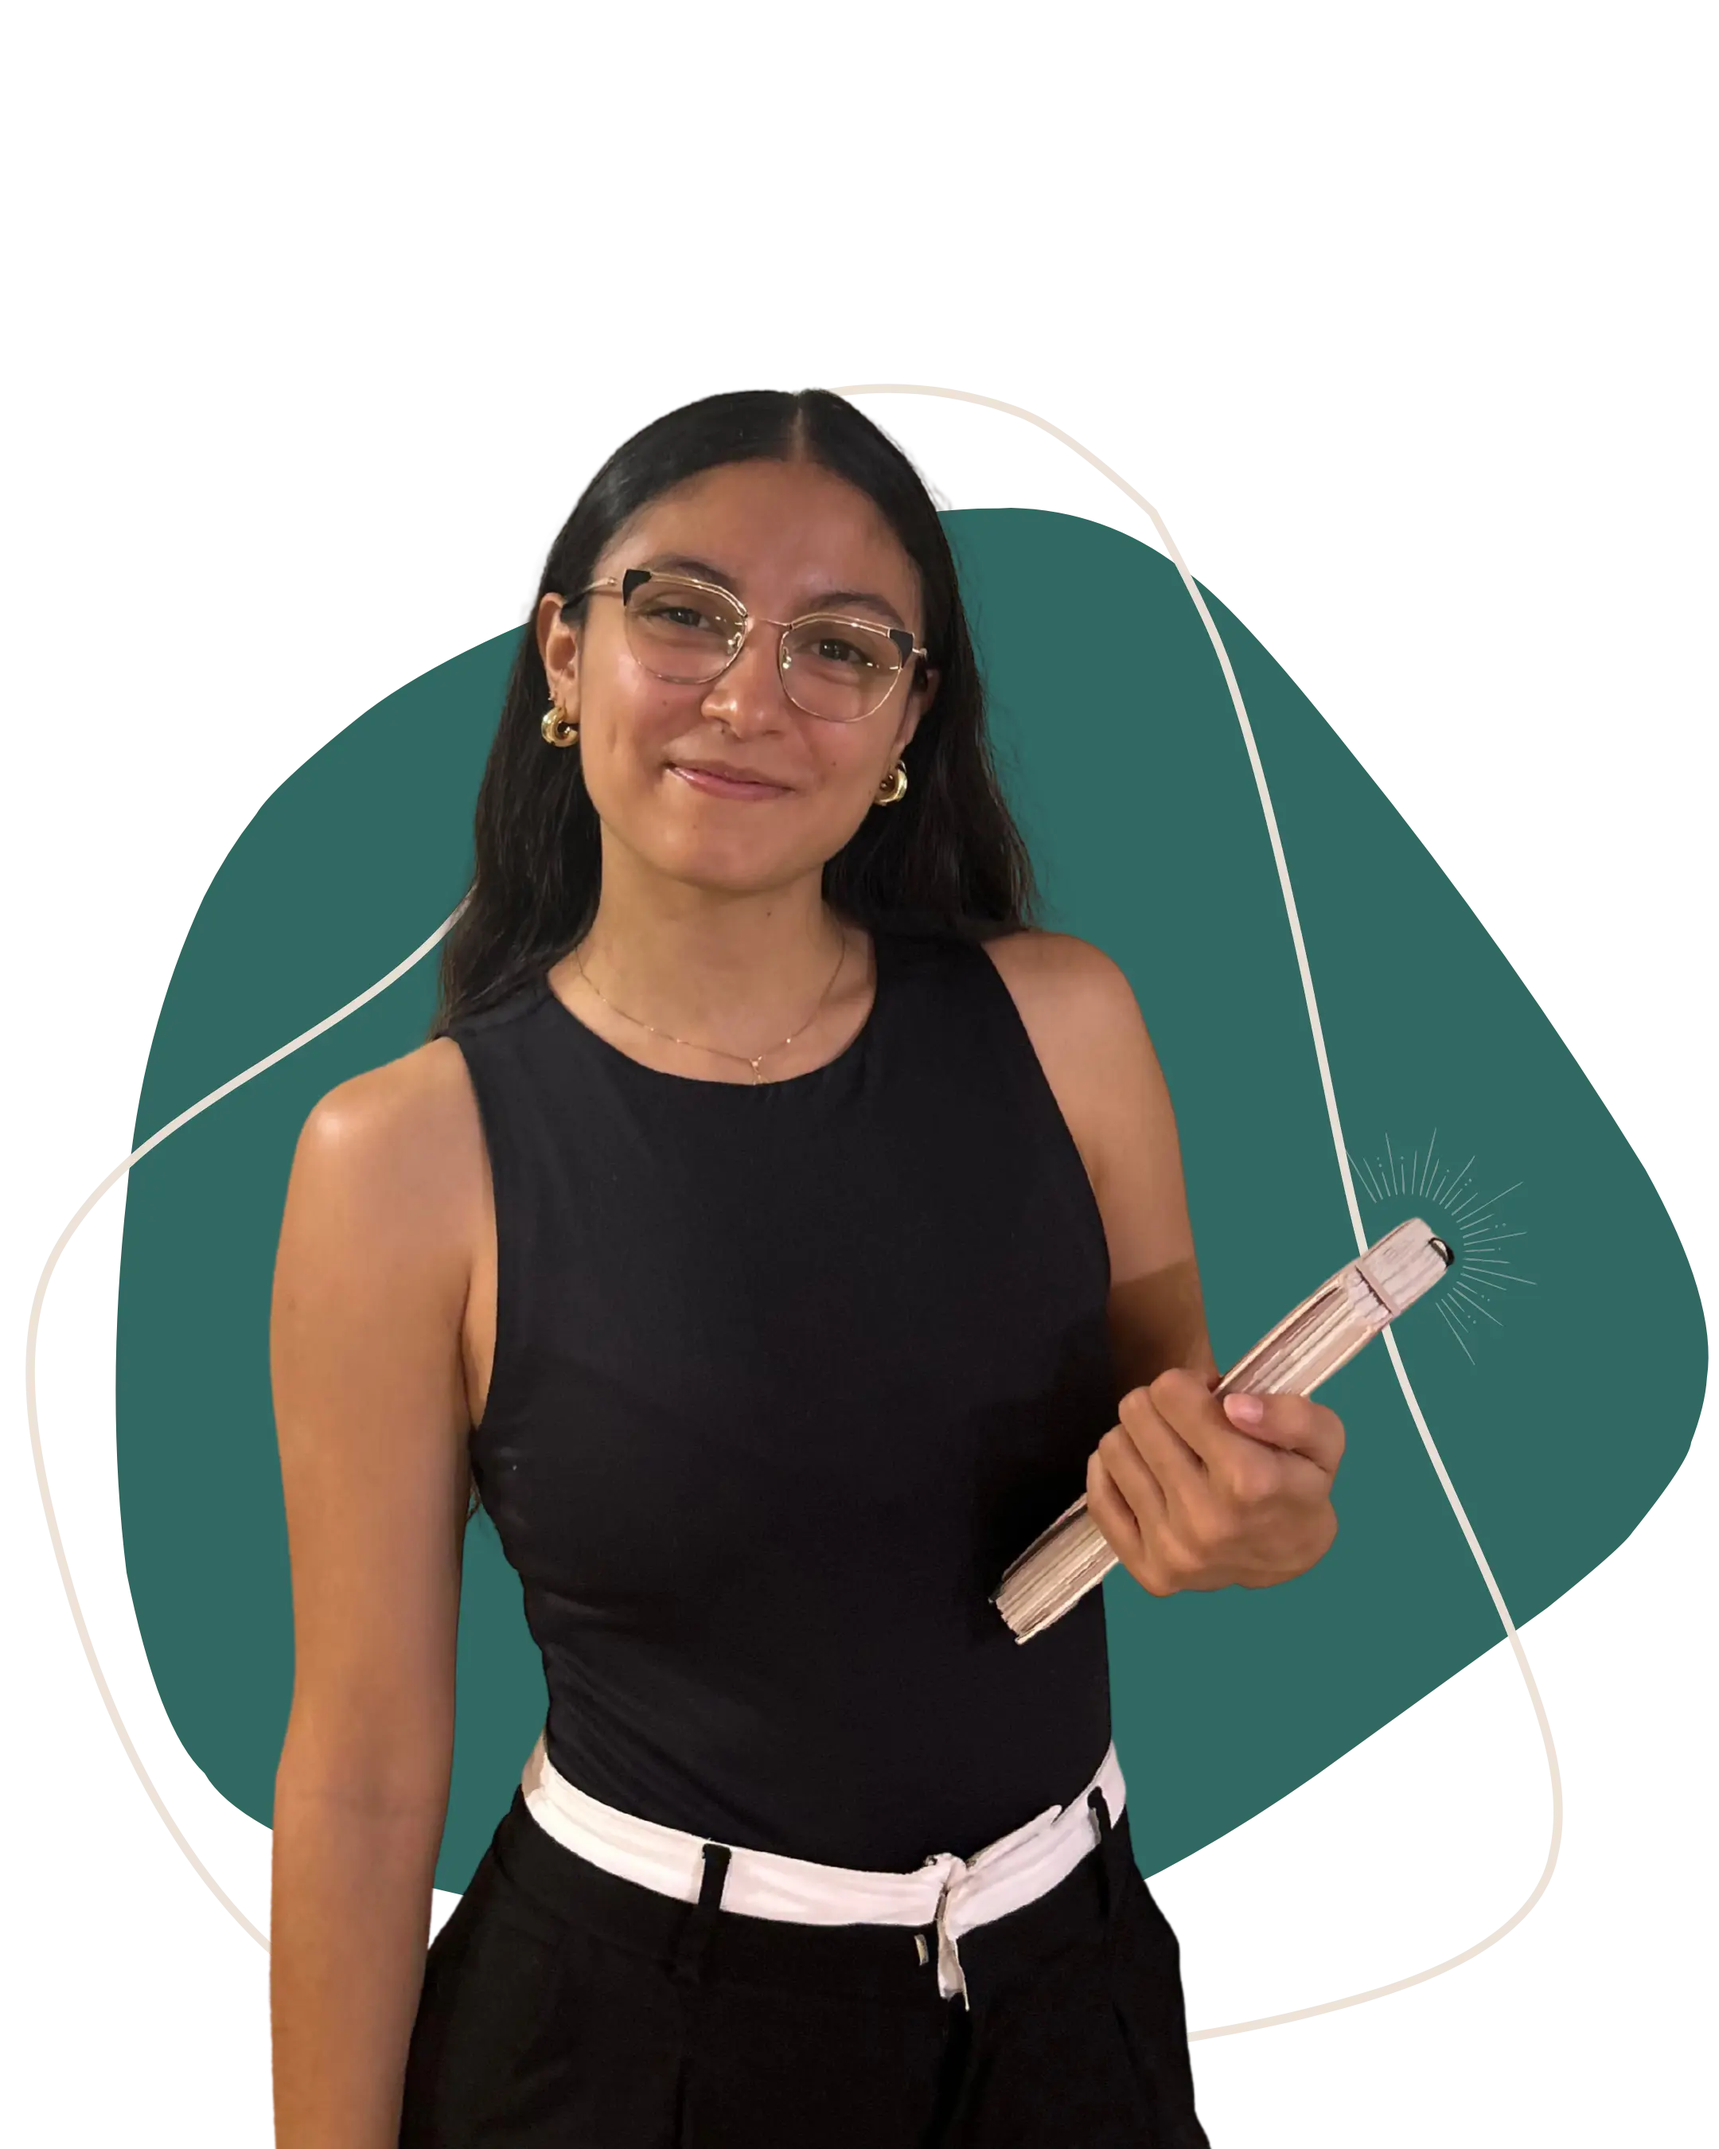
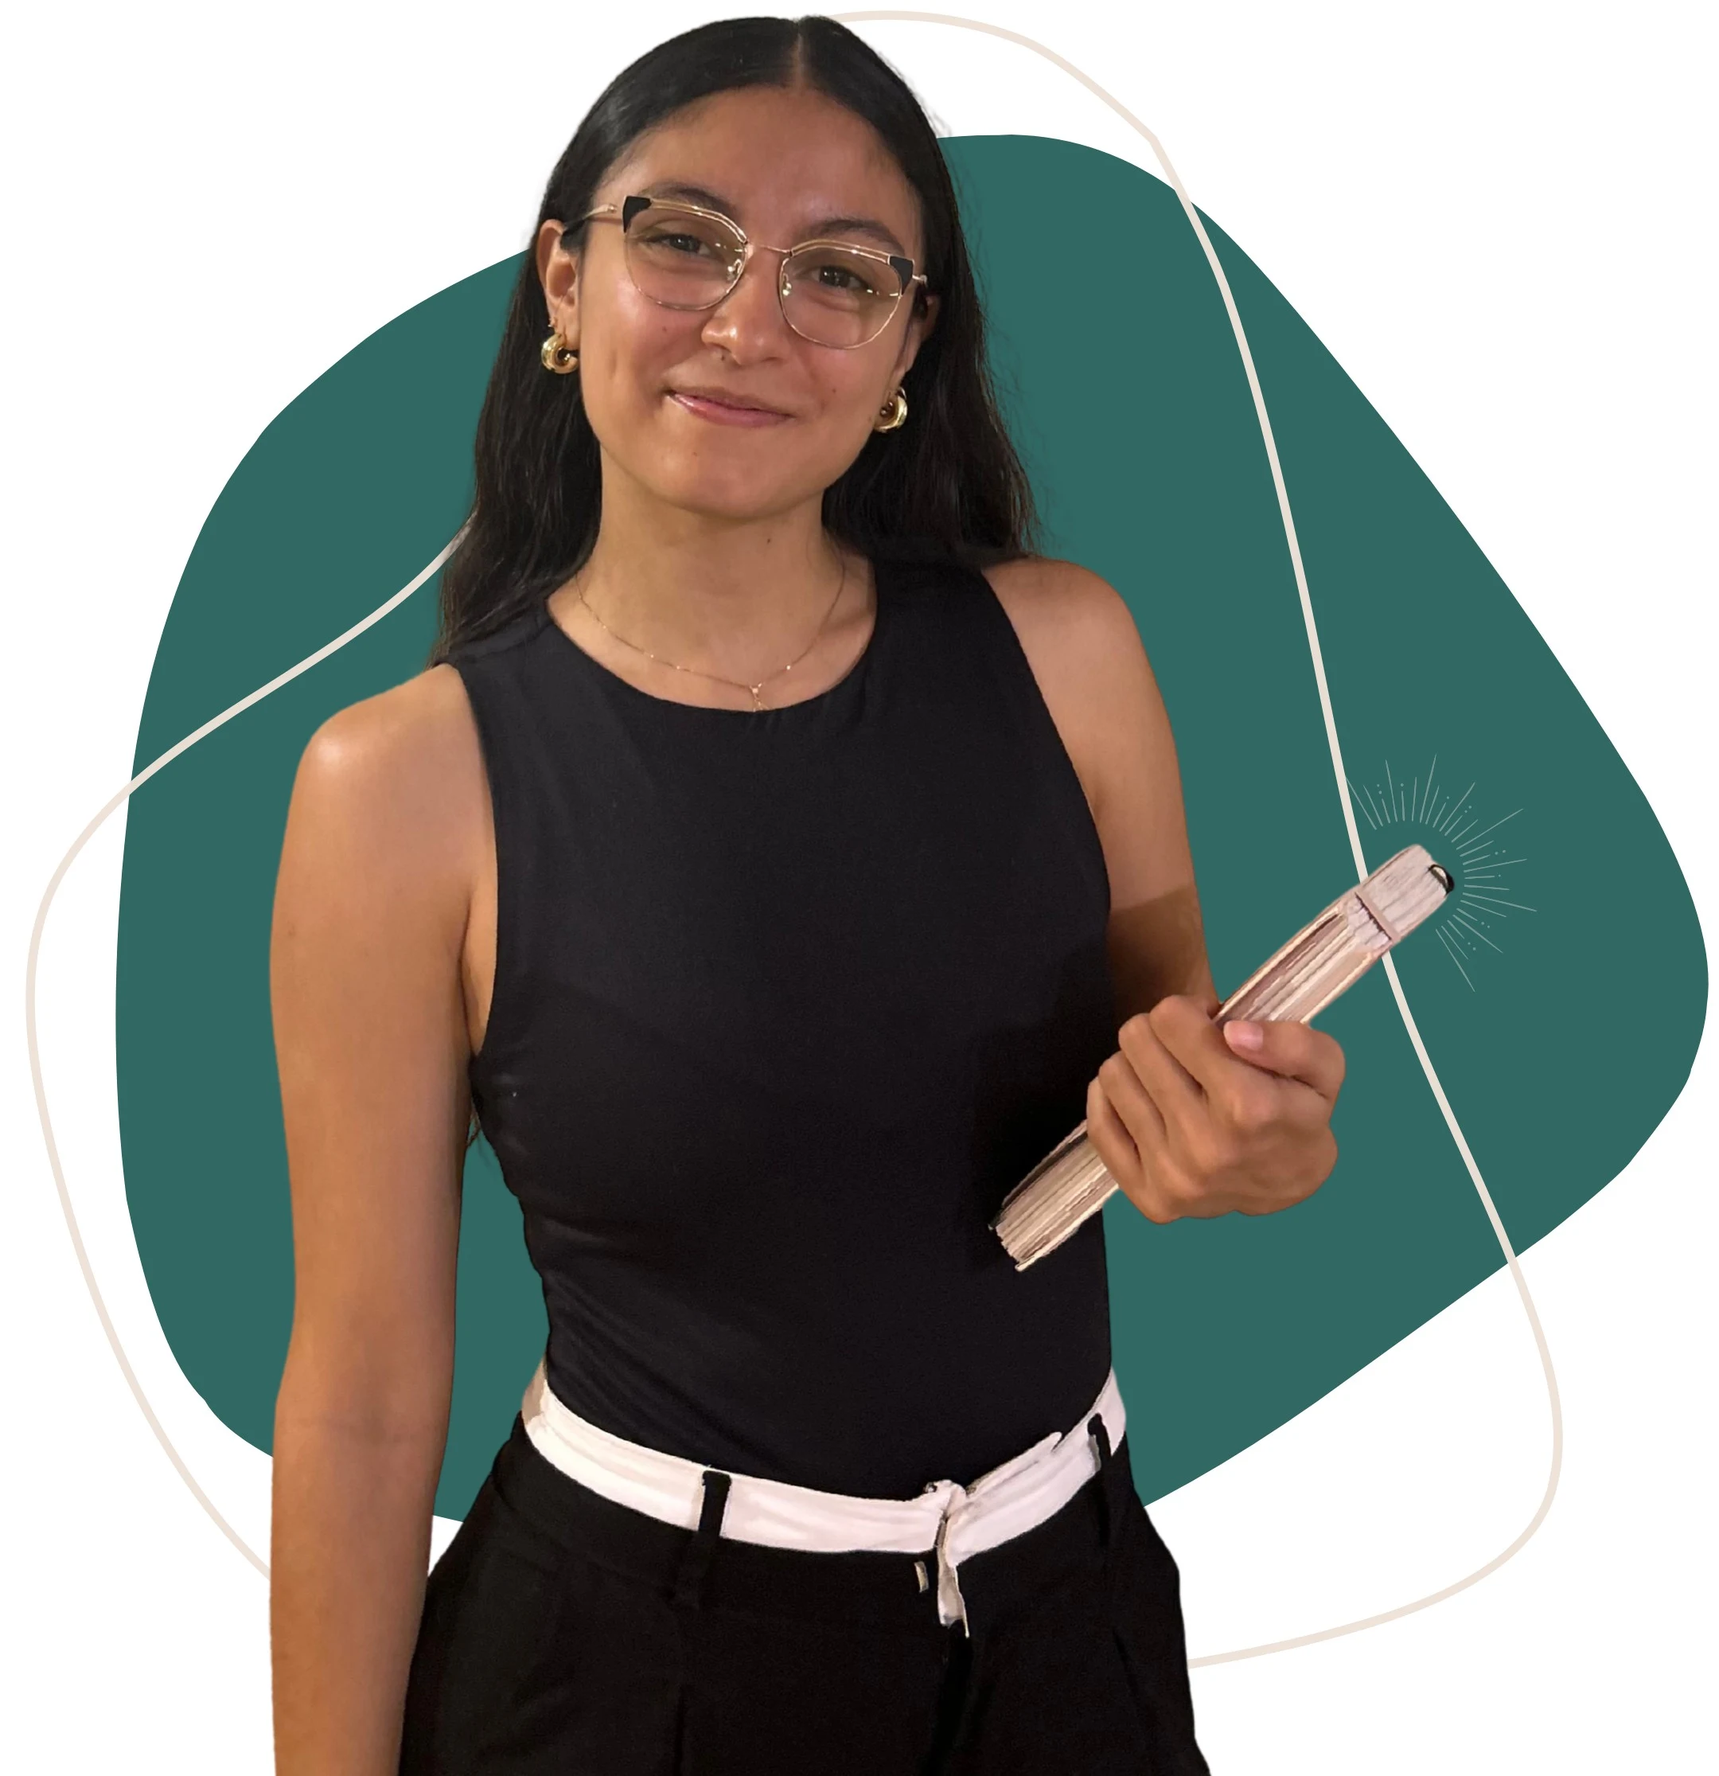
Tamaños

diff --git a/index.html b/index.html
@@ -154,7 +154,7 @@
                 <div class="relative flex justify-center">
                     <img src="img/about_me.webp" 
                         alt="Sofía Paredes Psicóloga"
-                        class="relative z-10 w-64 md:w-80 lg:w-90 object-contain">
+                        class="relative z-10 w-full max-w-sm md:max-w-md lg:max-w-lg h-auto object-contain rounded-lg">
                 </div>
 
                 <!-- Nombre con SVG + Texto -->
@@ -383,7 +383,7 @@
             <div class="flex justify-center">
                 <img src="img/contacto.webp" 
                     alt="Sofía Paredes Psicóloga"
-                    class="max-h-[400px] object-contain drop-shadow-xl" />
+                    class="w-auto h-auto max-h-[500px] mx-auto rounded-lg object-contain"/>
             </div>
 
             <!-- Columna derecha (Texto + Formulario) -->
